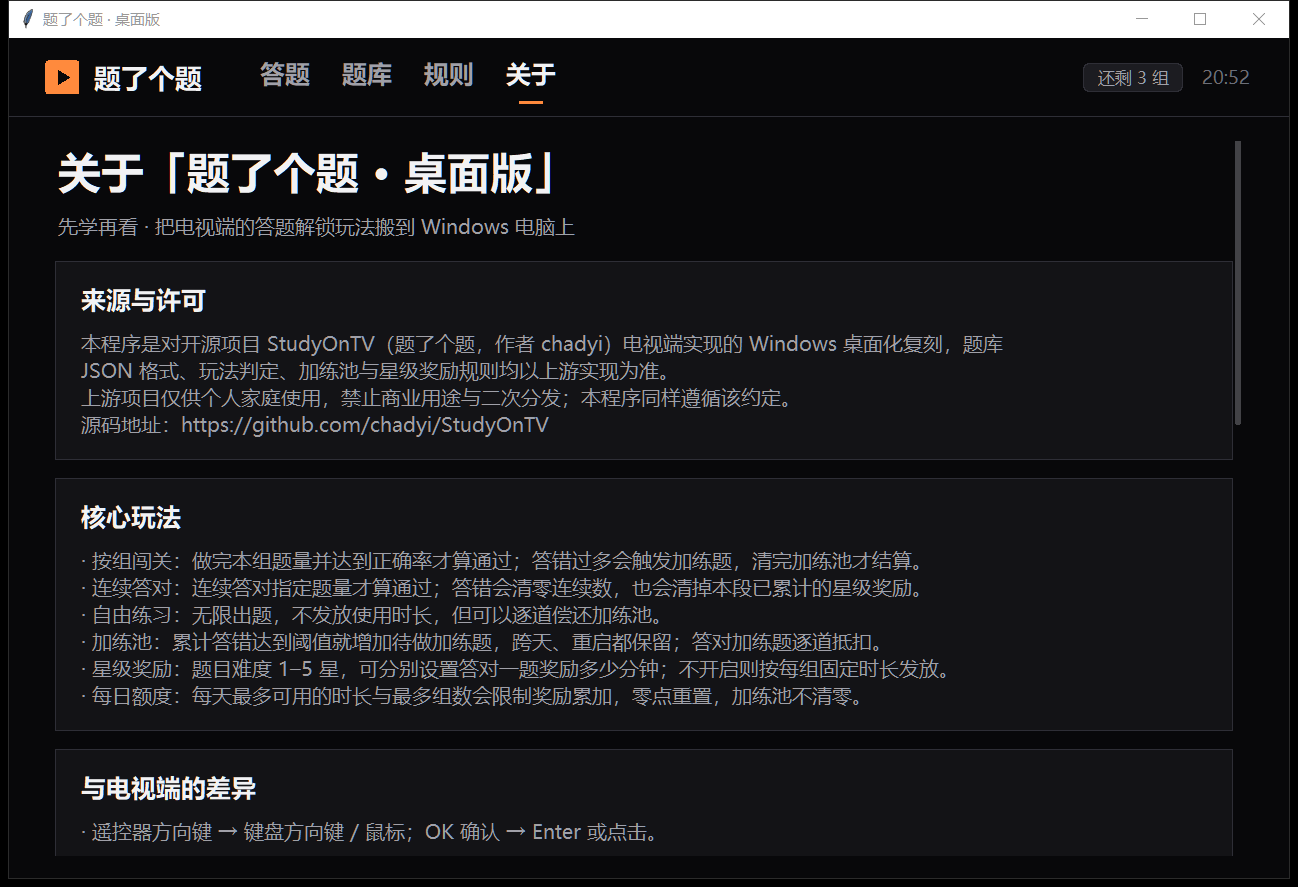
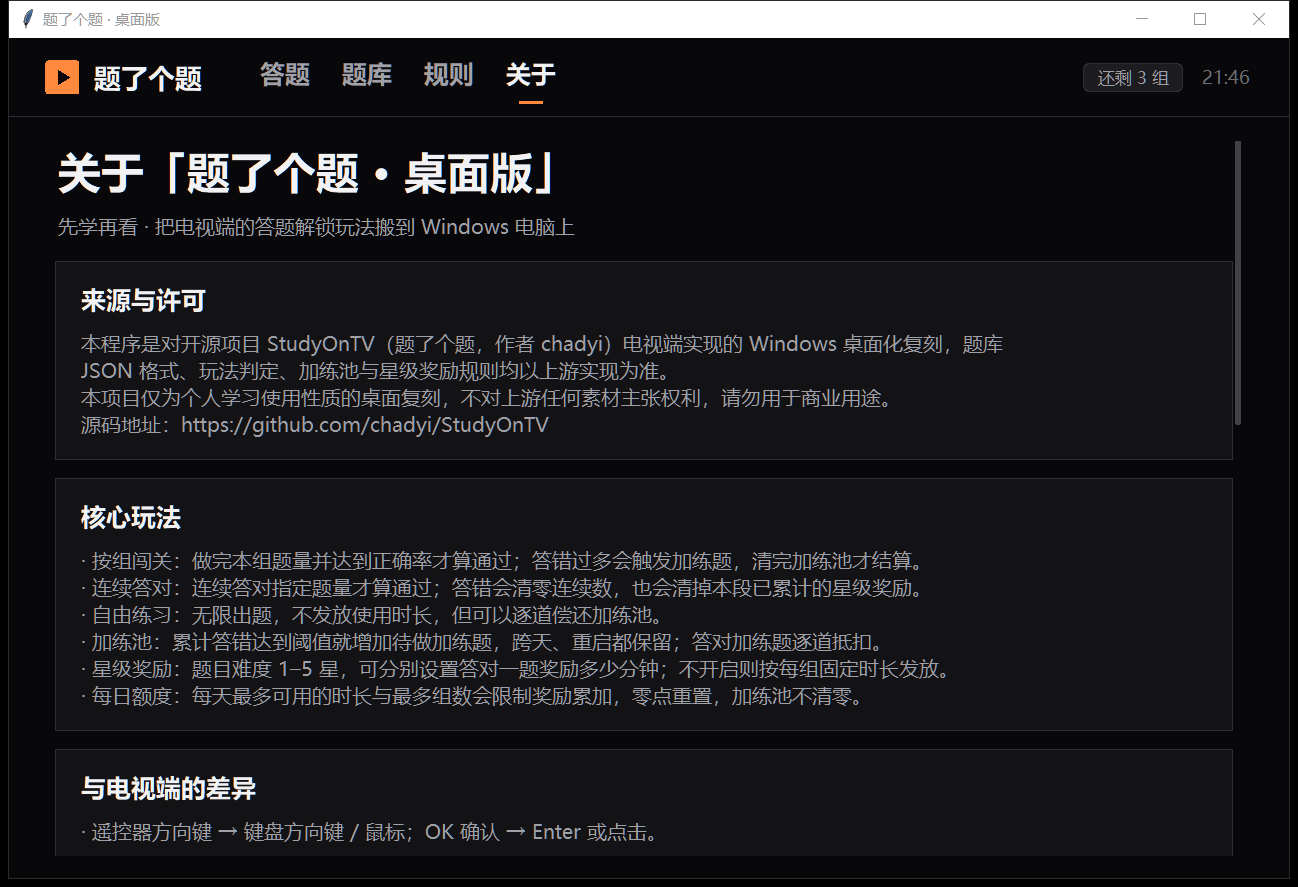
许可措辞改为「本项目仅为个人学习使用性质的桌面复刻」，关于页与 README 同步，重截关于页

Changed region(s): [[0.0616, 0.4262, 0.678, 0.4566], [0.9245, 0.0609, 0.9553, 0.0913]]

diff --git a/quizwin/ui/page_about.py b/quizwin/ui/page_about.py
@@ -58,7 +58,7 @@ class AboutPage(tk.Frame):
             "来源与许可",
             "本程序是对开源项目 StudyOnTV（题了个题，作者 chadyi）电视端实现的 Windows 桌面化复刻，"
             "题库 JSON 格式、玩法判定、加练池与星级奖励规则均以上游实现为准。\n"
-            "上游项目仅供个人家庭使用，禁止商业用途与二次分发；本程序同样遵循该约定。\n"
+            "本项目仅为个人学习使用性质的桌面复刻，不对上游任何素材主张权利，请勿用于商业用途。\n"
             "源码地址：https://github.com/chadyi/StudyOnTV",
         )
 
